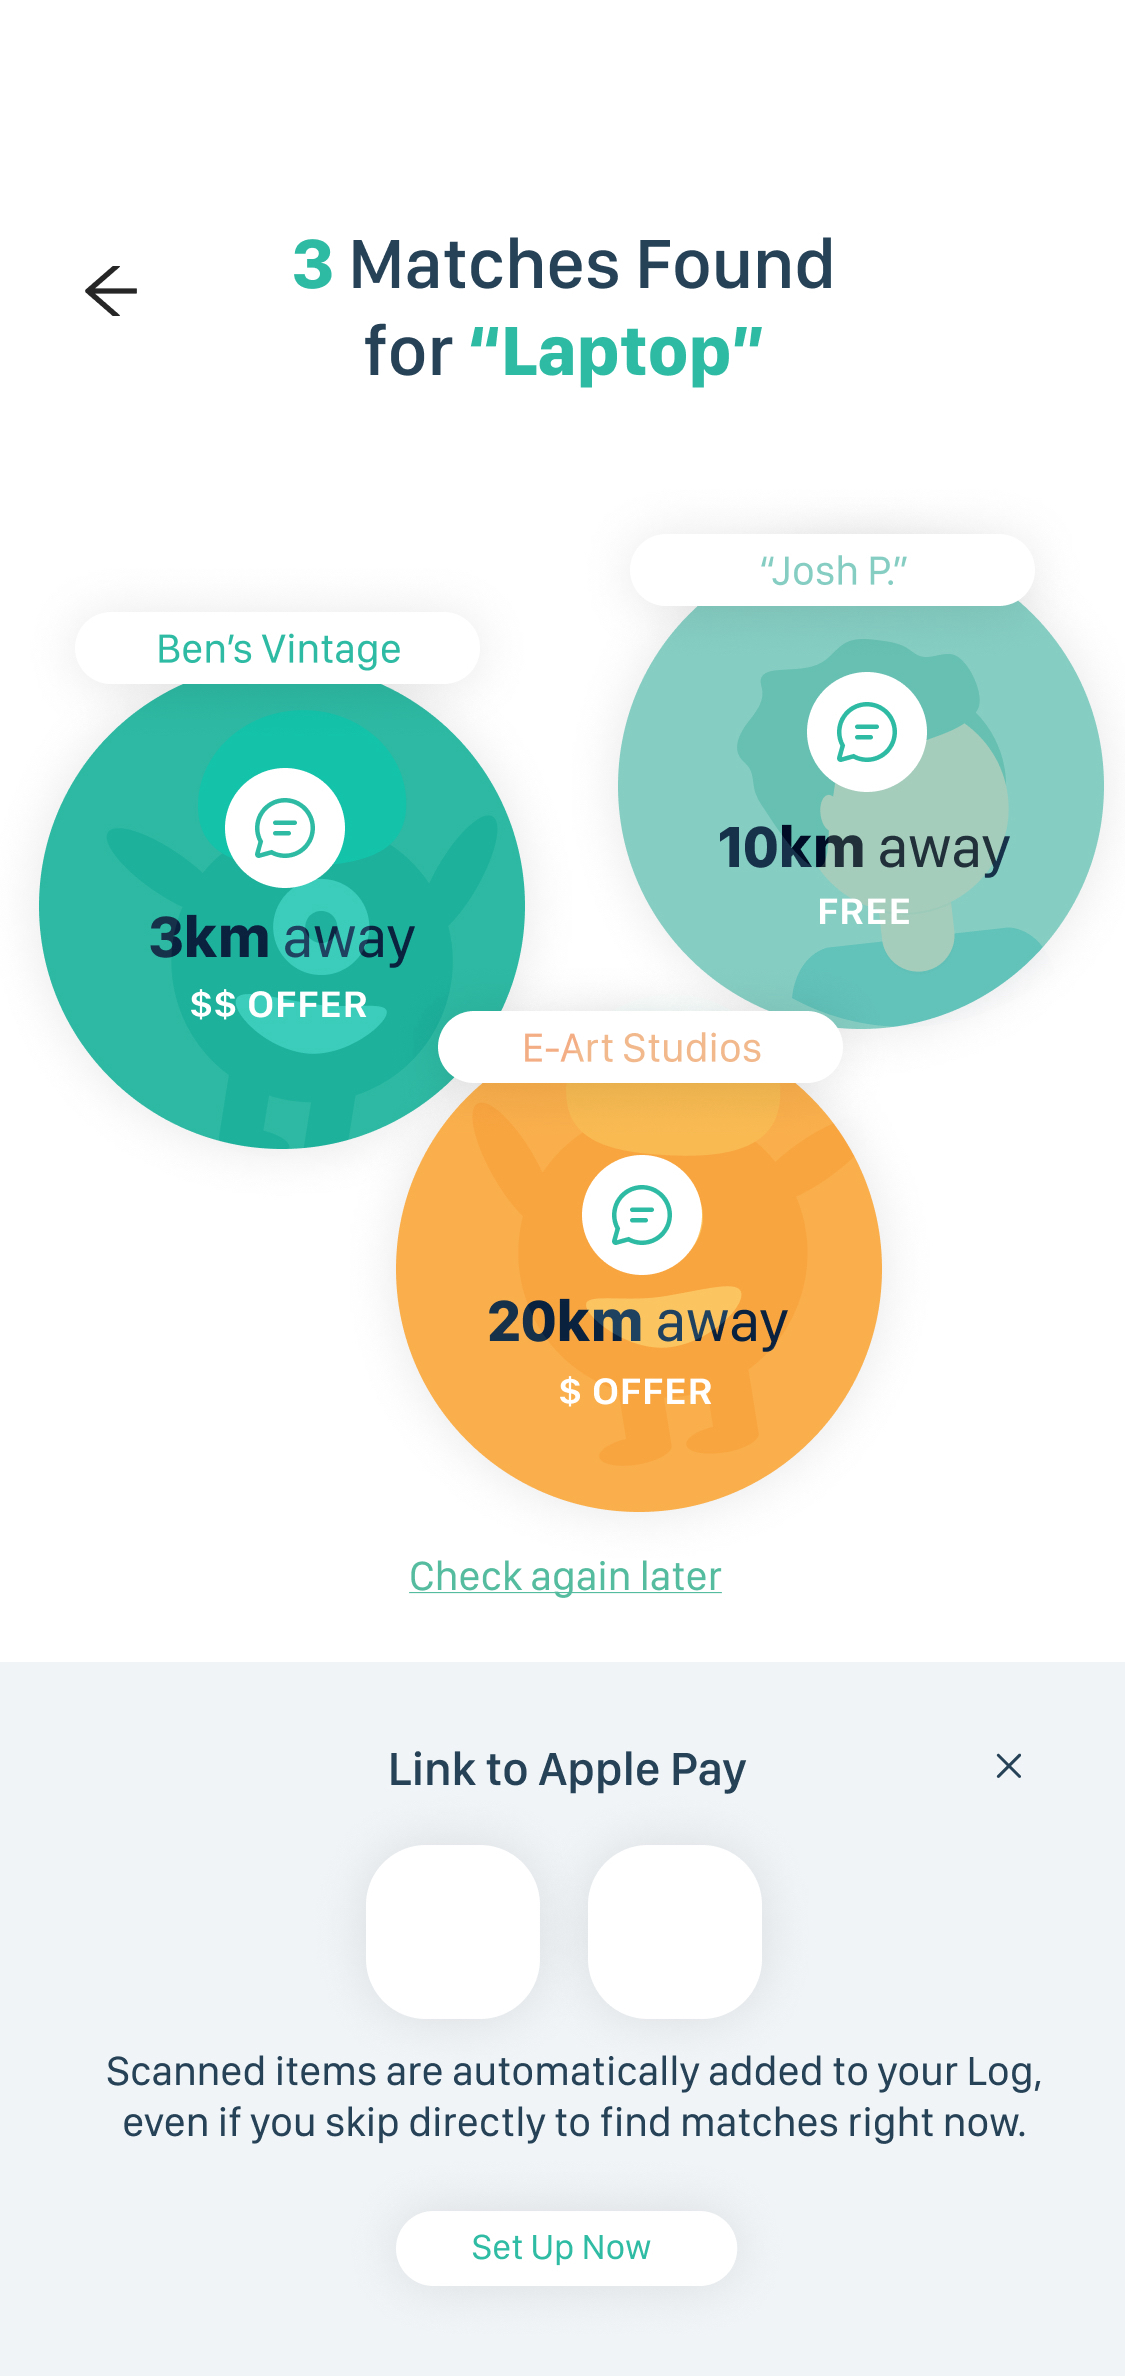
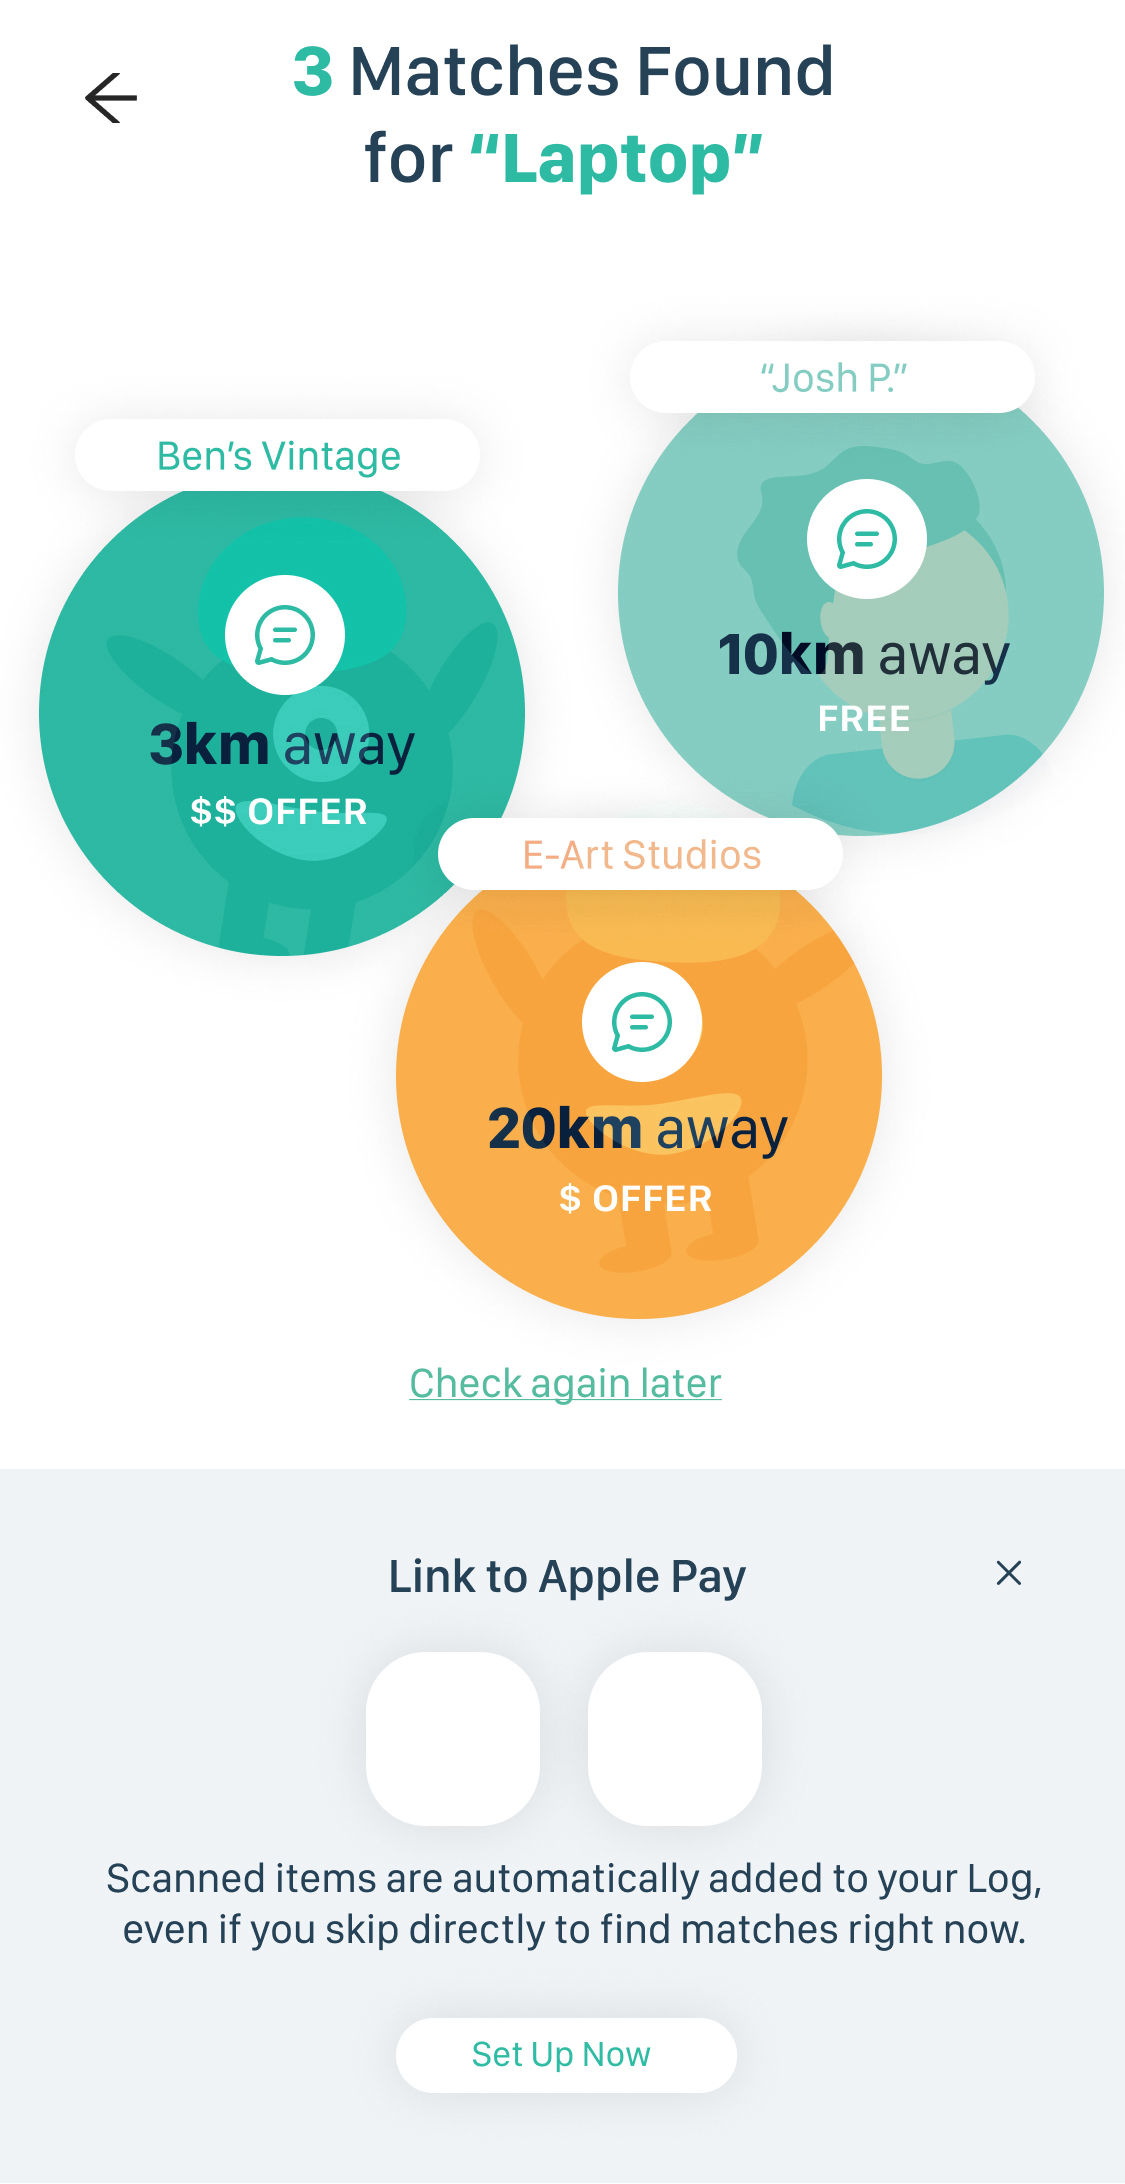
adjusted profile and recycle matches page

diff --git a/src/screens/Profile/Landing/index.js b/src/screens/Profile/Landing/index.js
@@ -7,19 +7,16 @@ import {
   StyleSheet,
   Dimensions,
 } from 'react-native';
-import Img from './landing.png';
+import Img from './Profile.jpg';
 
 const ProfileLanding = ({ navigation: { navigate } }) => {
   return (
-    <ScrollView
-      style={{ flex: 1, width: '100%' }}
-      contentContainerStyle={{ flex: 1, width: '100%' }}
-    >
-      <Image source={Img} style={{ flex: 1, width: '100%', height: 800, resizeMode: 'contain' }} />
+    <ScrollView style={{ flex: 1, width: '100%' }}>
+      <Image source={Img} style={{ flex: 1, width: '100%', height: 1180, resizeMode: 'center' }} />
       <TouchableOpacity
         style={{
           position: 'absolute',
-          top: 215,
+          top: 210,
           left: 110,
           elevation: 100,
           height: 50,

diff --git a/src/screens/Recycle/RecycleMatches/index.js b/src/screens/Recycle/RecycleMatches/index.js
@@ -7,7 +7,7 @@ const RecycleMatches = ({ navigation: { navigate } }) => {
     <ScrollView style={{ flex: 1, width: '100%' }}>
       <Image
         source={RecycleMatchesImage}
-        style={{ flex: 1, width: '100%', height: 850, resizeMode: 'center' }}
+        style={{ flex: 1, width: '100%', height: 800, resizeMode: 'center' }}
       />
       <TouchableOpacity
         style={{
